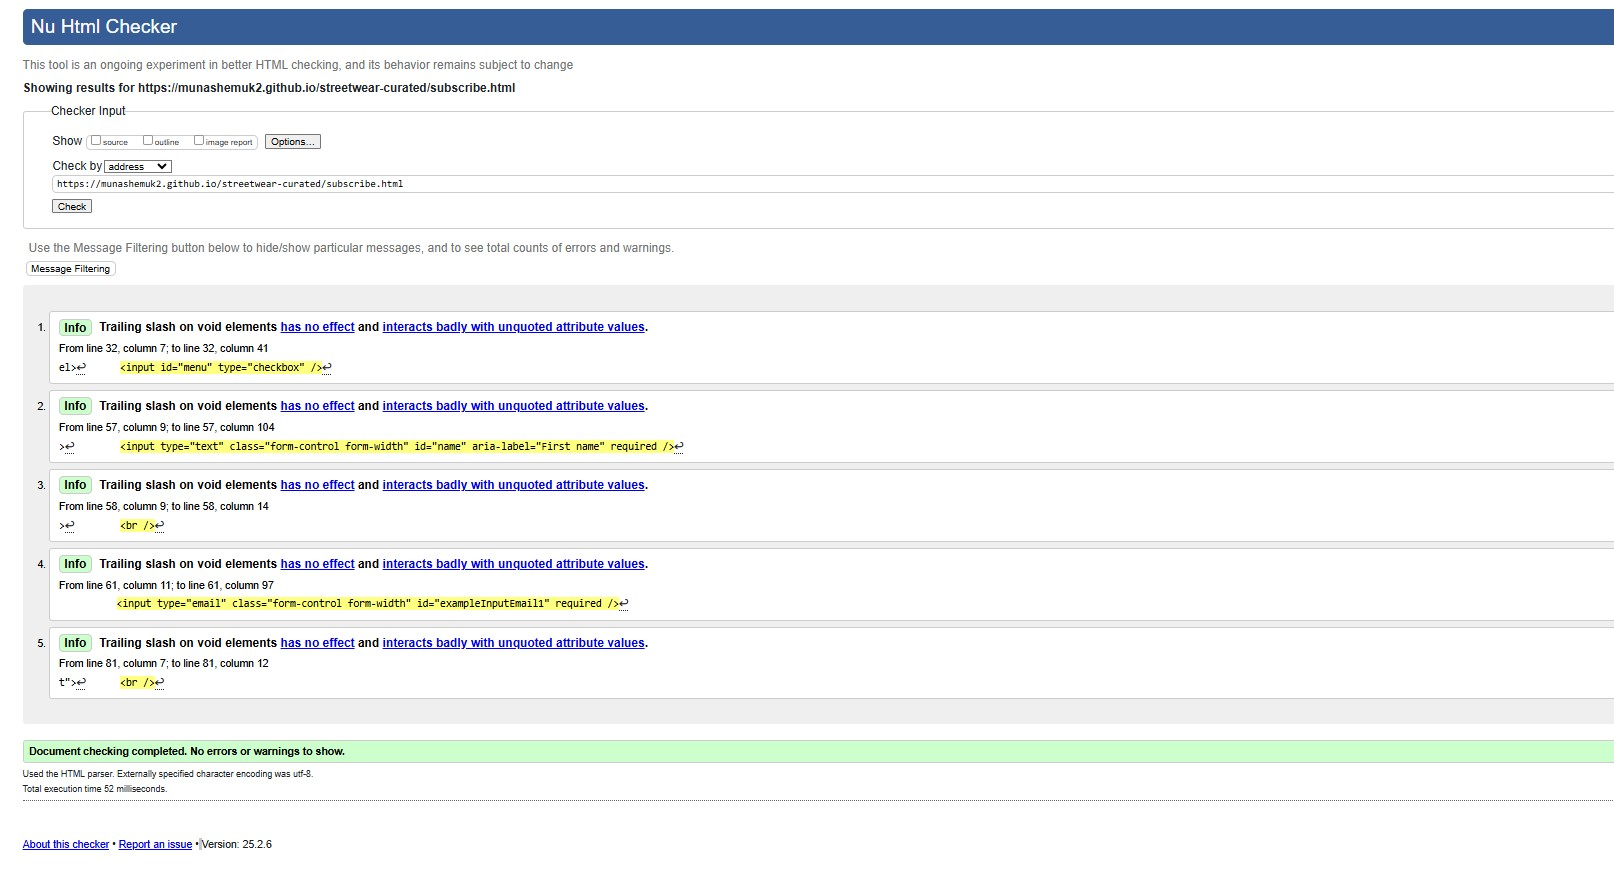
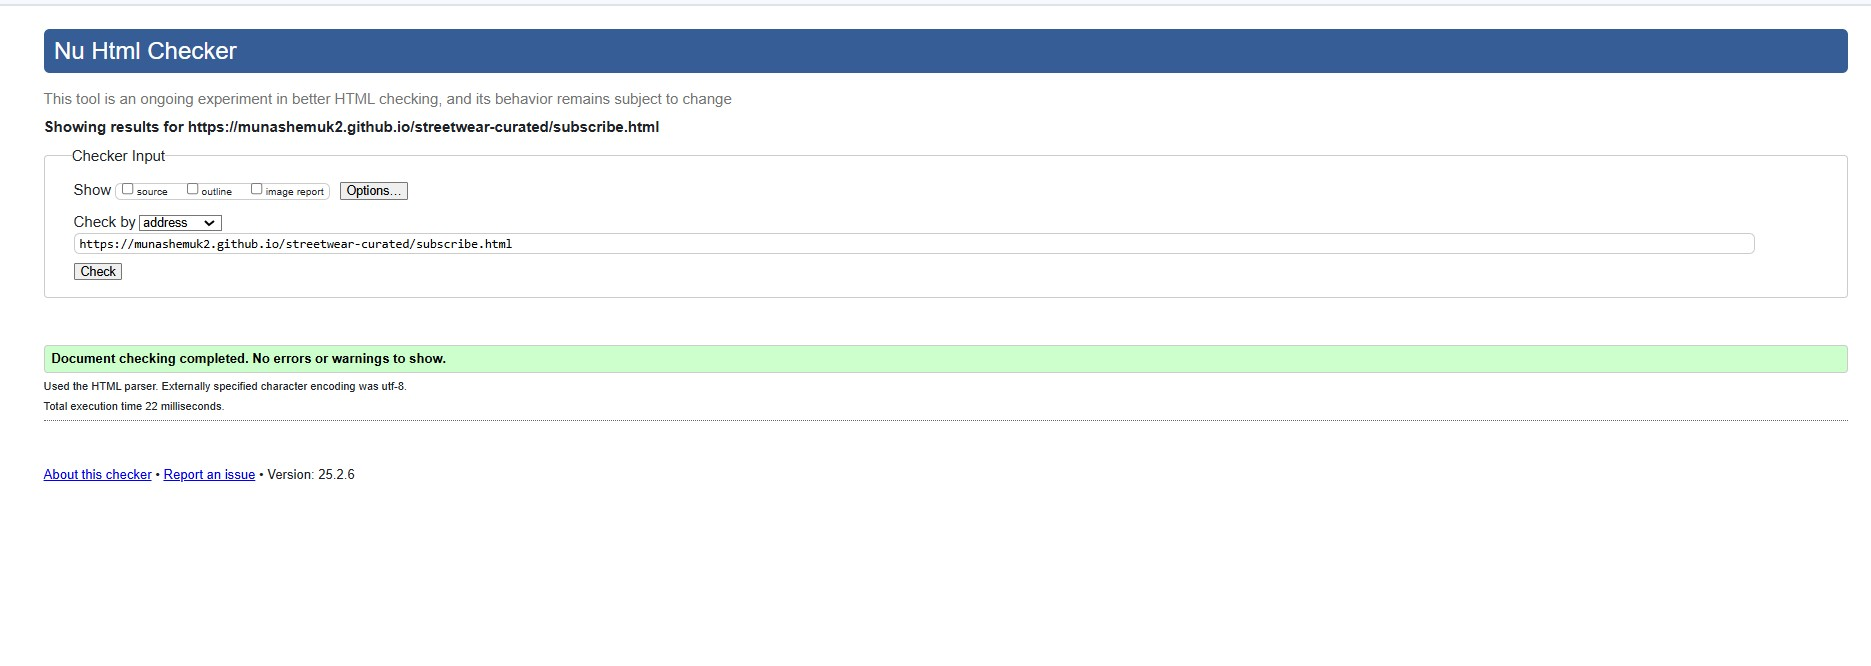
Update testing.md to show no errors found in the W3C validator

diff --git a/testing.md b/testing.md
@@ -58,25 +58,25 @@ In order to confirm the correct functionality, responsiveness, and appearance:
 
     ![Rare finds Page HTML Validator](screenshots/rare-checker.jpg)
 
-    - No errors or warnings were found when passing through the official W3C validator - just info advising trailing slash on void elements has no effect 
+    - No errors or warnings were found when passing through the official W3C validator.
 
   #### Events Page
 
     ![Events Page HTML Validator](screenshots/events-checker.jpg)
 
-      - No errors or warnings were found when passing through the official W3C validator - just info advising trailing slash on void elements has no effect 
+      - No errors or warnings were found when passing through the official W3C validator.
 
   #### Subscribe Page
 
     ![Subscribe Page HTML Validator](screenshots/subscribe-checker.jpg)
 
-      - No errors or warnings were found when passing through the official W3C validator - just info advising trailing slash on void elements has no effect 
+       - No errors or warnings were found when passing through the official W3C validator.
 
       #### Response Page
 
     ![Response Page HTML Validator](screenshots/response-checker.jpg)
 
-      - No errors or warnings were found when passing through the official W3C validator - just info advising trailing slash on void elements has no effect 
+     - No errors or warnings were found when passing through the official W3C validator.
     
 + ### CSS
   No errors or warnings were found when passing through the official W3C (Jigsaw) validator 
